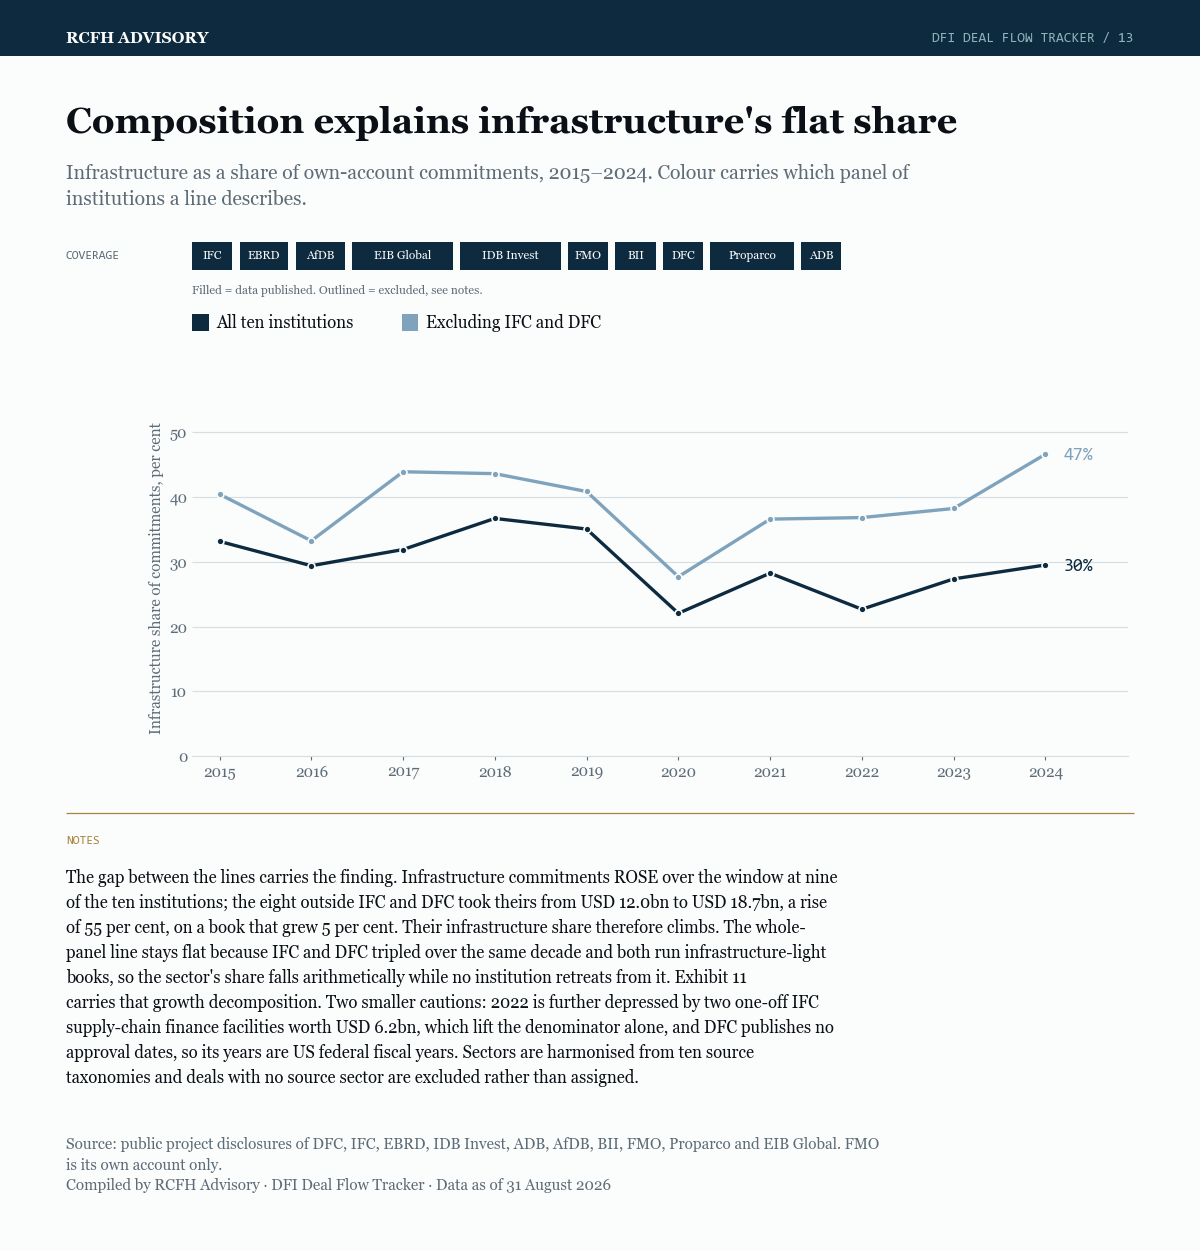
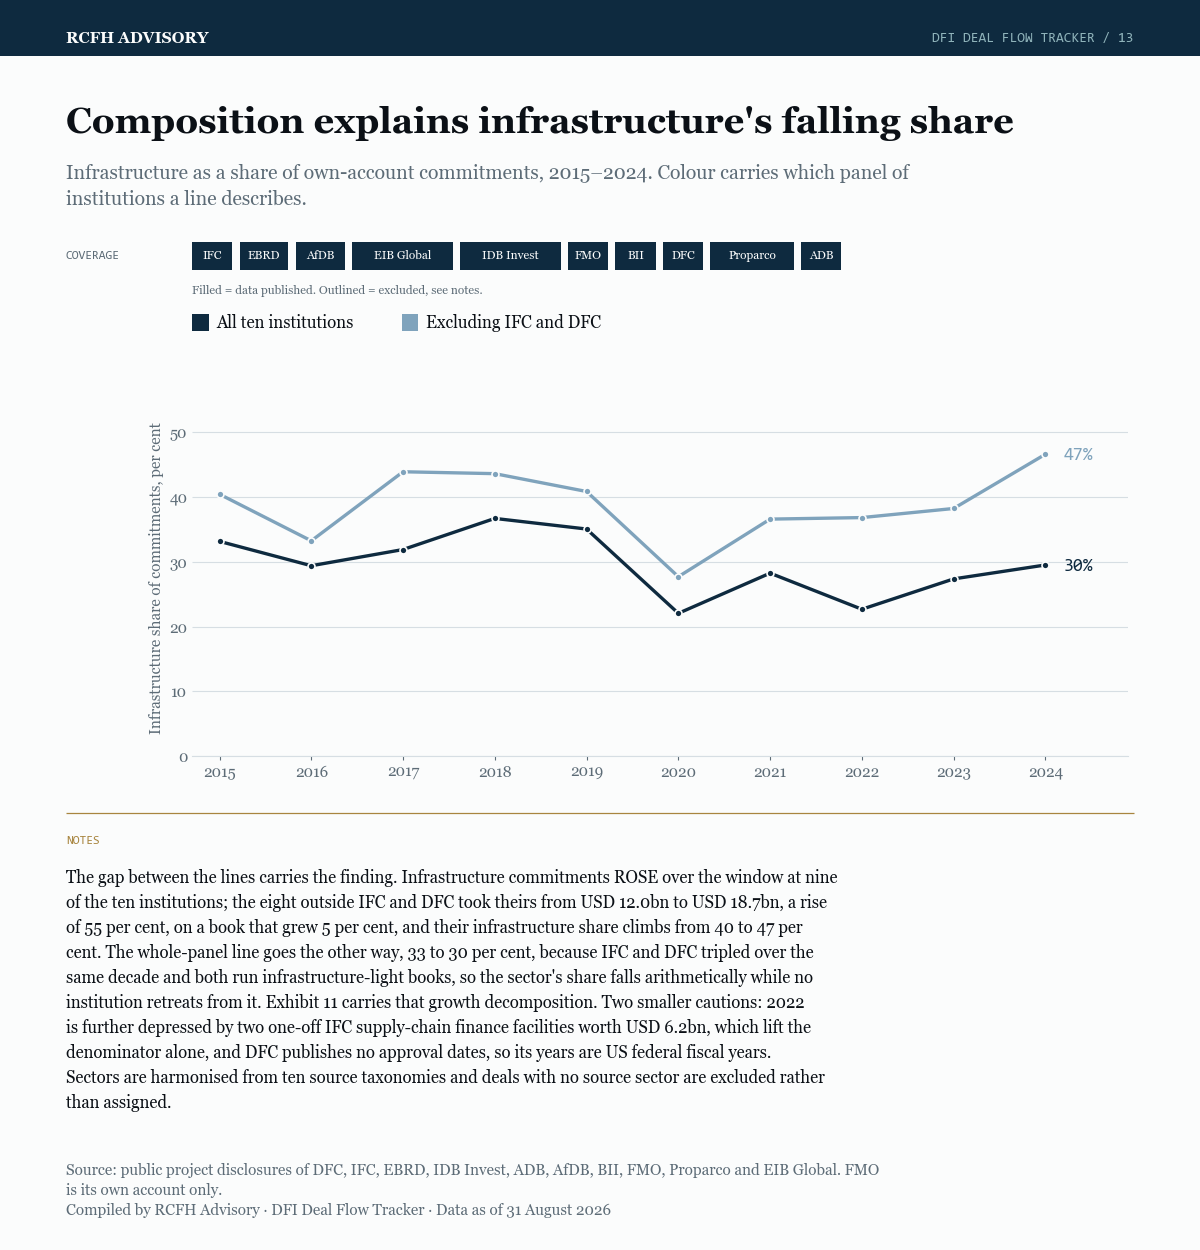
Compute exhibit 13's verdict and 16's dek instead of asserting them
The AfDB envelope correction (597c7a2) moved figures that two exhibits had
hard-coded, which is the exact failure mode recorded when exhibit 14 shipped
a title contradicting its own chart.

Exhibit 13 said "flat share". Removing the USD 7.79bn Ethiopia row from the
2015 denominator lifted that year's infrastructure share from 29.2% to 33.2%,
so the whole-panel line now FALLS, 33 to 30 per cent, while the eight outside
IFC and DFC climb 40 to 47. The divergence the exhibit argues is sharper than
before, and the adjective was simply wrong. It is now read off the series,
along with both endpoints in the note.

Exhibit 16's dek quoted 23 per cent unguaranteed exposure in energy; the
figure moved to 24. The dek now names the extremes and their subsectors from
the plotted data.

Audited the other two: exhibit 14's "seven deals in ten" (70.5% sit below the
mean) and "76 of 12,546", and exhibit 15's AfDB 53/52 split and fourteen
dropped Proparco rows, all still correct. Those are row counts and
percentiles, which the amount correction does not touch.

Ten suites pass.

Changed region(s): [[0.0617, 0.7176, 0.74, 0.9672], [0.6475, 0.0624, 0.8633, 0.1248]]

diff --git a/export_charts.py b/export_charts.py
@@ -1063,7 +1063,13 @@ def infrastructure_share(conn, stamp):
     colors, labels = rcfh.by_group(order, order=order)
 
     fig, ax = rcfh.figure("tracker", height=12.5)
-    rcfh.header(fig, "Composition explains infrastructure's flat share",
+    # "falling" is read off the series, never asserted. This title said "flat"
+    # until the AfDB envelope correction moved the 2015 endpoint by four
+    # points; a hard-coded adjective survives a data refresh and a computed
+    # one does not.
+    verdict = ("falling" if all_ten[0] - all_ten[-1] > 1.5
+               else "rising" if all_ten[-1] - all_ten[0] > 1.5 else "flat")
+    rcfh.header(fig, f"Composition explains infrastructure's {verdict} share",
                 dek=f"Infrastructure as a share of own-account commitments, "
                     f"{RECENT_FROM}–{RECENT_TO}. Colour carries which "
                     "panel of institutions a line describes.", exhibit="13")
@@ -1094,10 +1100,12 @@ def infrastructure_share(conn, stamp):
         f"the eight outside "
         f"IFC and DFC took theirs from USD {lvl['first']:,.1f}bn to USD "
         f"{lvl['last']:,.1f}bn, a rise of {rise:.0f} per cent, on a book that "
-        "grew 5 per cent. Their infrastructure share therefore climbs. The "
-        "whole-panel line stays flat because IFC and DFC tripled over the same "
-        "decade and both run infrastructure-light books, so the sector's share "
-        "falls arithmetically while no institution retreats from it. Exhibit 11 "
+        f"grew 5 per cent, and their infrastructure share climbs from "
+        f"{eight[0]:.0f} to {eight[-1]:.0f} per cent. The whole-panel line "
+        f"goes the other way, {all_ten[0]:.0f} to {all_ten[-1]:.0f} per cent, "
+        "because IFC and DFC tripled over the same decade and both run "
+        "infrastructure-light books, so the sector's share falls "
+        "arithmetically while no institution retreats from it. Exhibit 11 "
         "carries that growth decomposition. Two smaller cautions: 2022 is "
         "further depressed by two one-off IFC supply-chain finance facilities "
         "worth USD 6.2bn, which lift the denominator alone, and DFC publishes "
@@ -1330,8 +1338,11 @@ def sovereign_gradient(conn, stamp):
     rcfh.header(fig, "Water borrows behind a sovereign guarantee",
                 dek=f"AfDB infrastructure commitments by borrower type, "
                     f"{RECENT_FROM}–{RECENT_TO}, USD billions. Unguaranteed "
-                    "exposure runs from 23 per cent in energy to 0.3 per cent "
-                    "in water.", exhibit="16")
+                    f"exposure runs from {max(share):.0f} per cent in "
+                    f"{labels[share.index(max(share))].split(' &')[0].lower()} "
+                    f"to {min(share):.1f} per cent in "
+                    f"{labels[share.index(min(share))].split(' &')[0].lower()}"
+                    ".", exhibit="16")
     # Coverage first, legend below: see the note in exhibit 15.
     rcfh.coverage(fig, included=["AfDB"],
                   excluded=[i for i in ALL_TEN if i != "AfDB"])
